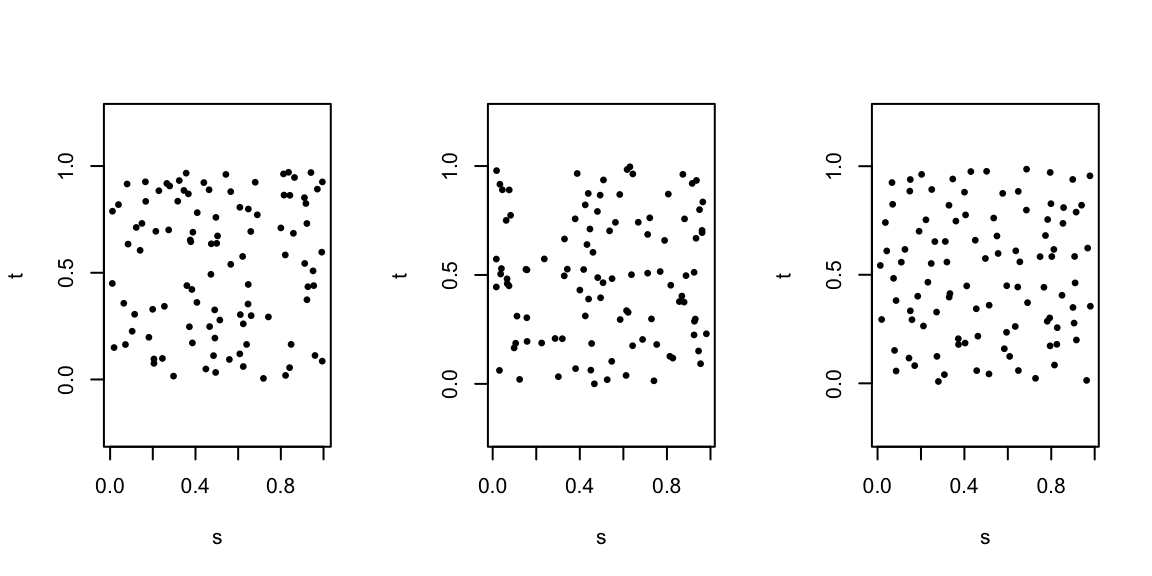
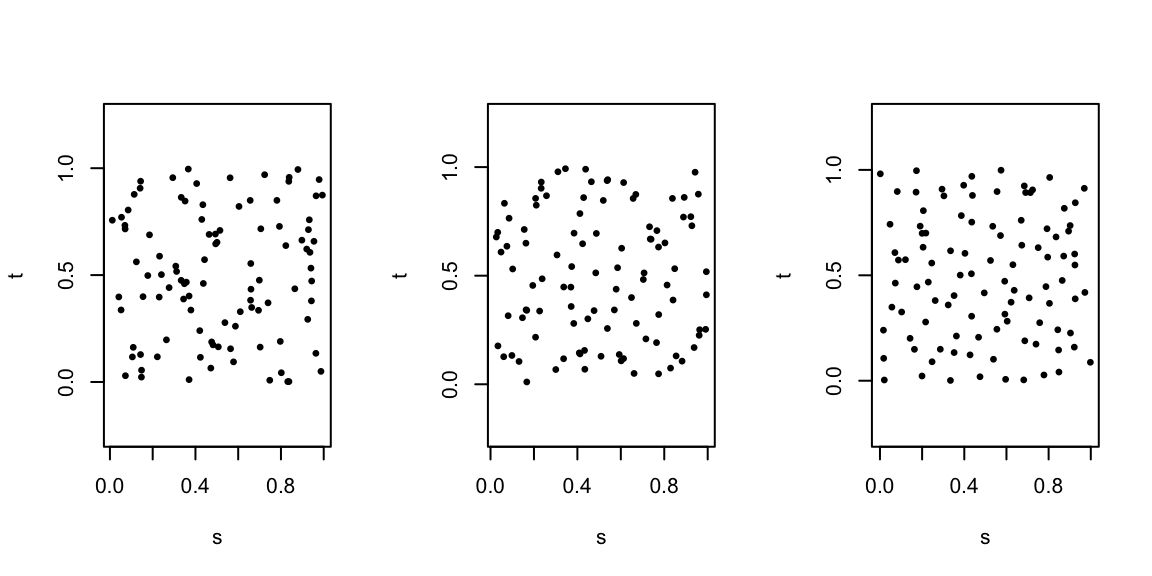
pkg: restore plotting options after changes in documentation

diff --git a/docs/articles/tdaunif.html b/docs/articles/tdaunif.html
@@ -76,7 +76,7 @@
       <h1 data-toc-skip>Uniform and Stratified Sampling from Manifolds in Euclidean Space</h1>
                         <h4 class="author">Cory Brunson</h4>
             
-            <h4 class="date">2020-10-09</h4>
+            <h4 class="date">2020-10-17</h4>
       
       <small class="dont-index">Source: <a href="https://github.com/corybrunson/tdaunif/blob/master/vignettes/tdaunif.rmd"><code>vignettes/tdaunif.rmd</code></a></small>
       <div class="hidden name"><code>tdaunif.rmd</code></div>
@@ -89,6 +89,14 @@
 <p>Samples from <a href="https://mathworld.wolfram.com/ParametricEquations.html">parameterized</a> immersions are easy to generate: When the parameterization is <span class="math inline">\(f : S \to X\)</span>, sample points from the parameter space <span class="math inline">\(S\)</span> (the domain) and transform the points to the cooordinate space <span class="math inline">\(X\)</span> (the codomain). When the parameterization is not volume-preserving (length-preserving for 1-dimensional manifolds, area-preserving for 2-dimensional manifolds, etc.), however, this will lead to oversampling of compressed regions and undersampling of expanded regions, called “warping”. <a href="https://projecteuclid.org/euclid.imsc/1379942050">Diaconis, Holmes, and Shahshahani (2013)</a> illustrate this problem by sampling naïvely from the <em>curved torus</em>, a common embedding of the torus <span class="math inline">\(\mathbb{T}^2\)</span> into 3-dimensional Euclidean space <span class="math inline">\(\mathbb{R}^3\)</span>.</p>
 <p>The package makes use of two techniques to mitigate this problem. The easier technique, described by Diaconis, Holmes, and Shahshahani, is <em>rejection sampling</em>: Generate a larger-than-necessary sample in the naïve way and then strategically discard samples to correct for warping. To do this requires explicitly calculating a function that quantifies the warping at each point in the domain, a more general analog to the derivative of a function <span class="math inline">\(f : \mathbb{R} \to \mathbb{R}\)</span>. This derivative is called the <a href="https://mathworld.wolfram.com/Jacobian.html">Jacobian determinant</a> <span class="math inline">\(j_f : S \to \mathbb{R}\)</span> and is used to calibrate the rejection rate.</p>
 <p>The harder technique requires analytically solving (i.e. finding an inverse formula for) <span class="math inline">\(j_f\)</span> in order to construct an alternative, <em>volume-preserving</em> parameterization <span class="math inline">\(\tilde{f} : S \to X\)</span> of the same manifold. <a href="https://www.cs.princeton.edu/courses/archive/fall04/cos526/papers/course29sig01.pdf">Arvo (2001; p. 41–70)</a> describes this technique for several simple cases, some of which are implemented here. Unfortunately, most common parameterizations do not have the necessary analytic solutions so are not implemented this way. For those that are, an important payoff is the ability to generate <em>stratified samples</em> from the coordinate space merely by stratifying the parameter space.</p>
+<div id="set-up" class="section level3">
+<h3 class="hasAnchor">
+<a href="#set-up" class="anchor"></a>Set up</h3>
+<p>This chunk attaches the installed version of the package, saves the default graphics settings and initializes the random number generator:</p>
+<div class="sourceCode" id="cb1"><html><body><pre class="r"><span class="fu"><a href="https://rdrr.io/r/base/library.html">library</a></span>(<span class="no">tdaunif</span>)
+<span class="no">oldpar</span> <span class="kw">&lt;-</span> <span class="fu"><a href="https://rdrr.io/r/graphics/par.html">par</a></span>(<span class="kw">no.readonly</span> <span class="kw">=</span> <span class="fl">TRUE</span>)
+<span class="fu"><a href="https://rdrr.io/r/base/Random.html">set.seed</a></span>(<span class="fl">0</span>)</pre></body></html></div>
+</div>
 <div id="volume-preserving-parameterizations" class="section level2">
 <h2 class="hasAnchor">
 <a href="#volume-preserving-parameterizations" class="anchor"></a>Volume-preserving parameterizations</h2>
@@ -110,7 +118,7 @@ h : [0,1]\times[0,1] &amp; \to \mathbb{R}^3 \\
 1 - u
 \end{array}\right]
 \end{align*}\]</span></p>
-<div class="sourceCode" id="cb1"><html><body><pre class="r"><span class="no">hemi</span> <span class="kw">&lt;-</span> <span class="fu"><a href="../reference/sphere.html">sample_2hemisphere</a></span>(<span class="fl">180L</span>)
+<div class="sourceCode" id="cb2"><html><body><pre class="r"><span class="no">hemi</span> <span class="kw">&lt;-</span> <span class="fu"><a href="../reference/sphere.html">sample_2hemisphere</a></span>(<span class="fl">180L</span>)
 <span class="fu"><a href="https://rdrr.io/r/graphics/pairs.html">pairs</a></span>(<span class="no">hemi</span>, <span class="kw">asp</span> <span class="kw">=</span> <span class="fl">1</span>, <span class="kw">pch</span> <span class="kw">=</span> <span class="fl">19</span>, <span class="kw">cex</span> <span class="kw">=</span> <span class="fl">.5</span>)</pre></body></html></div>
 <p><img src="tdaunif_files/figure-html/unnamed-chunk-2-1.png" width="576" style="display: block; margin: auto;"></p>
 <p>Notice the classical pattern of random clustering: Samples from uniform distributions are not themselves uniformly distributed (in the way that lattices are), so they don’t match our intuitive expectations. If we want greater uniformity, volume-preserving maps offer a solution.</p>
@@ -118,7 +126,7 @@ h : [0,1]\times[0,1] &amp; \to \mathbb{R}^3 \\
 <h3 class="hasAnchor">
 <a href="#stratified-sampling" class="anchor"></a>Stratified sampling</h3>
 <p>To sample from a region more uniformly than at random, we can stratify the region, allocate a uniform subsample size to each stratum, and sample those points uniformly within each stratum. The <code>sample_strat_*()</code> functions implement this idea for unit cubes of any dimension:<a href="#fn1" class="footnote-ref" id="fnref1"><sup>1</sup></a></p>
-<div class="sourceCode" id="cb2"><html><body><pre class="r"><span class="no">sq1</span> <span class="kw">&lt;-</span> <span class="fu"><a href="../reference/stratified-samplers.html">sample_strat_square</a></span>(<span class="fl">100L</span>, <span class="kw">bins</span> <span class="kw">=</span> <span class="fl">1L</span>)
+<div class="sourceCode" id="cb3"><html><body><pre class="r"><span class="no">sq1</span> <span class="kw">&lt;-</span> <span class="fu"><a href="../reference/stratified-samplers.html">sample_strat_square</a></span>(<span class="fl">100L</span>, <span class="kw">bins</span> <span class="kw">=</span> <span class="fl">1L</span>)
 <span class="no">sq4</span> <span class="kw">&lt;-</span> <span class="fu"><a href="../reference/stratified-samplers.html">sample_strat_square</a></span>(<span class="fl">100L</span>, <span class="kw">bins</span> <span class="kw">=</span> <span class="fl">4L</span>)
 <span class="no">sq10</span> <span class="kw">&lt;-</span> <span class="fu"><a href="../reference/stratified-samplers.html">sample_strat_square</a></span>(<span class="fl">100L</span>, <span class="kw">bins</span> <span class="kw">=</span> <span class="fl">10L</span>)
 <span class="fu"><a href="https://rdrr.io/r/graphics/par.html">par</a></span>(<span class="kw">mfrow</span> <span class="kw">=</span> <span class="fu"><a href="https://rdrr.io/r/base/c.html">c</a></span>(<span class="fl">1</span>, <span class="fl">3</span>))
@@ -126,7 +134,6 @@ h : [0,1]\times[0,1] &amp; \to \mathbb{R}^3 \\
 <span class="fu"><a href="https://rdrr.io/r/base/plot.html">plot</a></span>(<span class="no">sq4</span>, <span class="kw">asp</span> <span class="kw">=</span> <span class="fl">1</span>, <span class="kw">pch</span> <span class="kw">=</span> <span class="fl">19</span>, <span class="kw">cex</span> <span class="kw">=</span> <span class="fl">.5</span>)
 <span class="fu"><a href="https://rdrr.io/r/base/plot.html">plot</a></span>(<span class="no">sq10</span>, <span class="kw">asp</span> <span class="kw">=</span> <span class="fl">1</span>, <span class="kw">pch</span> <span class="kw">=</span> <span class="fl">19</span>, <span class="kw">cex</span> <span class="kw">=</span> <span class="fl">.5</span>)</pre></body></html></div>
 <p><img src="tdaunif_files/figure-html/unnamed-chunk-3-1.png" width="576" style="display: block; margin: auto;"></p>
-<div class="sourceCode" id="cb3"><html><body><pre class="r"><span class="fu"><a href="https://rdrr.io/r/graphics/par.html">par</a></span>(<span class="kw">mfrow</span> <span class="kw">=</span> <span class="fu"><a href="https://rdrr.io/r/base/c.html">c</a></span>(<span class="fl">1</span>, <span class="fl">1</span>))</pre></body></html></div>
 <p>These functions also undergird stratified sampling from manifolds with volume-preserving parameterizations, including the hemisphere:</p>
 <div class="sourceCode" id="cb4"><html><body><pre class="r"><span class="no">hemi10</span> <span class="kw">&lt;-</span> <span class="fu"><a href="../reference/sphere.html">sample_2hemisphere</a></span>(<span class="fl">225L</span>, <span class="kw">bins</span> <span class="kw">=</span> <span class="fl">10L</span>)
 <span class="fu"><a href="https://rdrr.io/r/graphics/pairs.html">pairs</a></span>(<span class="no">hemi10</span>, <span class="kw">asp</span> <span class="kw">=</span> <span class="fl">1</span>, <span class="kw">pch</span> <span class="kw">=</span> <span class="fl">19</span>, <span class="kw">cex</span> <span class="kw">=</span> <span class="fl">.5</span>)</pre></body></html></div>
@@ -194,8 +201,12 @@ f : Q &amp; \to \mathbb{R}^2 \\
 <span class="fu"><a href="https://rdrr.io/r/base/plot.html">plot</a></span>(<span class="no">disk1</span>, <span class="kw">asp</span> <span class="kw">=</span> <span class="fl">1</span>, <span class="kw">pch</span> <span class="kw">=</span> <span class="fl">19</span>, <span class="kw">cex</span> <span class="kw">=</span> <span class="fl">1</span>/<span class="fl">3</span>)
 <span class="fu"><a href="https://rdrr.io/r/base/plot.html">plot</a></span>(<span class="no">disk2</span>, <span class="kw">asp</span> <span class="kw">=</span> <span class="fl">1</span>, <span class="kw">pch</span> <span class="kw">=</span> <span class="fl">19</span>, <span class="kw">cex</span> <span class="kw">=</span> <span class="fl">1</span>/<span class="fl">3</span>)</pre></body></html></div>
 <p><img src="tdaunif_files/figure-html/unnamed-chunk-7-1.png" width="576" style="display: block; margin: auto;"></p>
-<div class="sourceCode" id="cb8"><html><body><pre class="r"><span class="fu"><a href="https://rdrr.io/r/graphics/par.html">par</a></span>(<span class="kw">mfrow</span> <span class="kw">=</span> <span class="fu"><a href="https://rdrr.io/r/base/c.html">c</a></span>(<span class="fl">1L</span>, <span class="fl">1L</span>))</pre></body></html></div>
 <p>Pretty close!</p>
+</div>
+<div id="set-down" class="section level3">
+<h3 class="hasAnchor">
+<a href="#set-down" class="anchor"></a>Set down</h3>
+<div class="sourceCode" id="cb8"><html><body><pre class="r"><span class="fu"><a href="https://rdrr.io/r/graphics/par.html">par</a></span>(<span class="no">oldpar</span>)</pre></body></html></div>
 </div>
 </div>
 <div class="footnotes">

diff --git a/docs/index.html b/docs/index.html
@@ -106,16 +106,19 @@
 <a href="#installation" class="anchor"></a>installation</h3>
 <p><strong>tdaunif</strong> is not yet on CRAN, but you can install it from GitHub using <a href="https://github.com/r-lib/remotes">the <strong>remotes</strong> package</a>:</p>
 <div class="sourceCode" id="cb1"><pre class="r"><span class="kw pkg">remotes</span><span class="kw ns">::</span><span class="fu"><a href="https://remotes.r-lib.org/reference/install_github.html">install_github</a></span>(<span class="st">"corybrunson/tdaunif"</span>, <span class="kw">build_vignettes</span> <span class="kw">=</span> <span class="fl">TRUE</span>)</pre></div>
+<p>To stabilize this document, this chunk saves the default graphics settings (as required by CRAN) and initializes the random number generator:</p>
+<div class="sourceCode" id="cb2"><pre class="r"><span class="no">oldpar</span> <span class="kw">&lt;-</span> <span class="fu"><a href="https://rdrr.io/r/graphics/par.html">par</a></span>(<span class="kw">no.readonly</span> <span class="kw">=</span> <span class="fl">TRUE</span>)
+<span class="fu"><a href="https://rdrr.io/r/base/Random.html">set.seed</a></span>(<span class="fl">0</span>)</pre></div>
 </div>
 <div id="illustration" class="section level3">
 <h3 class="hasAnchor">
 <a href="#illustration" class="anchor"></a>illustration</h3>
 <p><a href="https://en.wikipedia.org/wiki/Klein_bottle#3D_pinched_torus_/_4D_M%C3%B6bius_tube">An intuitive embedding of the Klein bottle into 4-space</a> is adapted from the popular “donut” embedding of the torus in 3-space. In <strong>tdaunif</strong> this is called the “tube” parameterization. We can sample uniformly from this embedding (without noise) and examine the coordinate projections as follows:</p>
-<div class="sourceCode" id="cb2"><pre class="r"><span class="no">x</span> <span class="kw">&lt;-</span> <span class="fu"><a href="reference/klein-bottles.html">sample_klein_tube</a></span>(<span class="kw">n</span> <span class="kw">=</span> <span class="fl">360</span>, <span class="kw">ar</span> <span class="kw">=</span> <span class="fl">3</span>, <span class="kw">sd</span> <span class="kw">=</span> <span class="fl">0</span>)
+<div class="sourceCode" id="cb3"><pre class="r"><span class="no">x</span> <span class="kw">&lt;-</span> <span class="fu"><a href="reference/klein-bottles.html">sample_klein_tube</a></span>(<span class="kw">n</span> <span class="kw">=</span> <span class="fl">360</span>, <span class="kw">ar</span> <span class="kw">=</span> <span class="fl">3</span>, <span class="kw">sd</span> <span class="kw">=</span> <span class="fl">0</span>)
 <span class="fu"><a href="https://rdrr.io/r/graphics/pairs.html">pairs</a></span>(<span class="no">x</span>, <span class="kw">asp</span> <span class="kw">=</span> <span class="fl">1</span>, <span class="kw">pch</span> <span class="kw">=</span> <span class="fl">19</span>, <span class="kw">cex</span> <span class="kw">=</span> <span class="fl">.5</span>)</pre></div>
 <p><img src="reference/figures/README-klein%20bottle-1.png"><!-- --></p>
 <p>Compare these neat projections to those of the same sample with noise added in the ambient Euclidean space:</p>
-<div class="sourceCode" id="cb3"><pre class="r"><span class="no">x</span> <span class="kw">&lt;-</span> <span class="fu"><a href="reference/noise.html">add_noise</a></span>(<span class="no">x</span>, <span class="kw">sd</span> <span class="kw">=</span> <span class="fl">.2</span>)
+<div class="sourceCode" id="cb4"><pre class="r"><span class="no">x</span> <span class="kw">&lt;-</span> <span class="fu"><a href="reference/noise.html">add_noise</a></span>(<span class="no">x</span>, <span class="kw">sd</span> <span class="kw">=</span> <span class="fl">.2</span>)
 <span class="fu"><a href="https://rdrr.io/r/graphics/pairs.html">pairs</a></span>(<span class="no">x</span>, <span class="kw">asp</span> <span class="kw">=</span> <span class="fl">1</span>, <span class="kw">pch</span> <span class="kw">=</span> <span class="fl">19</span>, <span class="kw">cex</span> <span class="kw">=</span> <span class="fl">.5</span>)</pre></div>
 <p><img src="reference/figures/README-klein%20bottle%20with%20noise-1.png"><!-- --></p>
 <p>For a thorough discussion of this sampler, see <a href="https://corybrunson.github.io/2019/02/01/sampling/">my blog post</a> describing the method presented in <a href="https://projecteuclid.org/euclid.imsc/1379942050">Diaconis, Holmes, and Shahshahani (2013)</a>.</p>
@@ -124,15 +127,15 @@
 <h3 class="hasAnchor">
 <a href="#another-illustration" class="anchor"></a>another illustration</h3>
 <p>A subset of samplers allow stratified sampling, which relies on an analytic solution to the problem of length or area distortion created by most parameterizations. For example, the planar triangle sampler can be stratified to produce a more uniform arrangement of points than a properly uniform sample would produce:</p>
-<div class="sourceCode" id="cb4"><pre class="r"><span class="no">equilateral</span> <span class="kw">&lt;-</span> <span class="fu"><a href="https://rdrr.io/r/base/cbind.html">cbind</a></span>(<span class="fu"><a href="https://rdrr.io/r/base/c.html">c</a></span>(<span class="fl">0</span>,<span class="fl">0</span>), <span class="fu"><a href="https://rdrr.io/r/base/c.html">c</a></span>(<span class="fl">0.5</span>,<span class="fu"><a href="https://rdrr.io/r/base/MathFun.html">sqrt</a></span>(<span class="fl">3</span>)/<span class="fl">2</span>), <span class="fu"><a href="https://rdrr.io/r/base/c.html">c</a></span>(<span class="fl">1</span>,<span class="fl">0</span>))
+<div class="sourceCode" id="cb5"><pre class="r"><span class="no">equilateral</span> <span class="kw">&lt;-</span> <span class="fu"><a href="https://rdrr.io/r/base/cbind.html">cbind</a></span>(<span class="fu"><a href="https://rdrr.io/r/base/c.html">c</a></span>(<span class="fl">0</span>,<span class="fl">0</span>), <span class="fu"><a href="https://rdrr.io/r/base/c.html">c</a></span>(<span class="fl">0.5</span>,<span class="fu"><a href="https://rdrr.io/r/base/MathFun.html">sqrt</a></span>(<span class="fl">3</span>)/<span class="fl">2</span>), <span class="fu"><a href="https://rdrr.io/r/base/c.html">c</a></span>(<span class="fl">1</span>,<span class="fl">0</span>))
 <span class="no">x</span> <span class="kw">&lt;-</span> <span class="fu"><a href="reference/triangles.html">sample_triangle_planar</a></span>(<span class="kw">n</span> <span class="kw">=</span> <span class="fl">720</span>, <span class="kw">triangle</span> <span class="kw">=</span> <span class="no">equilateral</span>)
 <span class="no">y</span> <span class="kw">&lt;-</span> <span class="fu"><a href="reference/triangles.html">sample_triangle_planar</a></span>(<span class="kw">n</span> <span class="kw">=</span> <span class="fl">720</span>, <span class="kw">triangle</span> <span class="kw">=</span> <span class="no">equilateral</span>, <span class="kw">bins</span> <span class="kw">=</span> <span class="fl">24</span>)
 <span class="fu"><a href="https://rdrr.io/r/graphics/par.html">par</a></span>(<span class="kw">mfrow</span> <span class="kw">=</span> <span class="fu"><a href="https://rdrr.io/r/base/c.html">c</a></span>(<span class="fl">1L</span>, <span class="fl">2L</span>))
 <span class="fu"><a href="https://rdrr.io/r/base/plot.html">plot</a></span>(<span class="no">x</span>, <span class="kw">asp</span> <span class="kw">=</span> <span class="fl">1</span>, <span class="kw">pch</span> <span class="kw">=</span> <span class="fl">19</span>, <span class="kw">cex</span> <span class="kw">=</span> <span class="fl">.5</span>)
 <span class="fu"><a href="https://rdrr.io/r/base/plot.html">plot</a></span>(<span class="no">y</span>, <span class="kw">asp</span> <span class="kw">=</span> <span class="fl">1</span>, <span class="kw">pch</span> <span class="kw">=</span> <span class="fl">19</span>, <span class="kw">cex</span> <span class="kw">=</span> <span class="fl">.5</span>)</pre></div>
 <p><img src="reference/figures/README-planar%20triangle,%20uniformly%20and%20with%20stratification-1.png"><!-- --></p>
-<div class="sourceCode" id="cb5"><pre class="r"><span class="fu"><a href="https://rdrr.io/r/graphics/par.html">par</a></span>(<span class="kw">mfrow</span> <span class="kw">=</span> <span class="fu"><a href="https://rdrr.io/r/base/c.html">c</a></span>(<span class="fl">1L</span>, <span class="fl">1L</span>))</pre></div>
 <p>See <a href="https://dl.acm.org/doi/10.1145/218380.218500">Arvo (1995)</a> and Arvo’s notes from <a href="https://www.cs.princeton.edu/courses/archive/fall04/cos526/papers/course29sig01.pdf">Siggraph 2001</a> for a detailed treatment of this techniquue.</p>
+<div class="sourceCode" id="cb6"><pre class="r"><span class="fu"><a href="https://rdrr.io/r/graphics/par.html">par</a></span>(<span class="no">oldpar</span>)</pre></div>
 </div>
 </div>
 </div>

diff --git a/docs/CONTRIBUTING.html b/docs/CONTRIBUTING.html
@@ -132,7 +132,7 @@
 <a href="#issues" class="anchor"></a>Issues</h2>
 <p><strong>Questions, possible bugs, feature requests, other open-ended issues</strong> may be raised as <a href="https://help.github.com/en/github/managing-your-work-on-github/creating-an-issue">issues on GitHub</a>. In most cases, the issue should consist of two sections: a description of the issue, and a reproducible example of it. A reproducible example should attach packages, include data, and execute code:</p>
 <ol>
-<li>Attach all relevant packages at the top of the example.</li>
+<li><p>Attach all relevant packages at the top of the example.</p></li>
 <li>
 <p>Use as few and as simple objects as possible to illustrate the issue. If the issue involves one or more custom objects <code>&lt;object&gt;</code>, these should be reconstructed in the code rather than read from files, as follows:</p>
 <ol>

diff --git a/docs/news/index.html b/docs/news/index.html
@@ -117,9 +117,9 @@
       <small>Source: <a href='https://github.com/corybrunson/tdaunif/blob/master/NEWS.md'><code>NEWS.md</code></a></small>
     </div>
 
-    <div id="tdaunif-0-1-0" class="section level1">
+    <div id="tdaunif-010" class="section level1">
 <h1 class="page-header" data-toc-text="0.1.0">
-<a href="#tdaunif-0-1-0" class="anchor"></a>tdaunif 0.1.0</h1>
+<a href="#tdaunif-010" class="anchor"></a>tdaunif 0.1.0</h1>
 <p>This first minor version contains several common samplers, stratified samplers for cubes in any dimension, and a function factory for custom rejection samplers.</p>
 </div>
   </div>

diff --git a/README.md b/README.md
@@ -52,6 +52,15 @@ their own with minimal effort (see `help(manifold, package =
 remotes::install_github("corybrunson/tdaunif", build_vignettes = TRUE)
 ```
 
+To stabilize this document, this chunk saves the default graphics
+settings (as required by CRAN) and initializes the random number
+generator:
+
+``` r
+oldpar <- par(no.readonly = TRUE)
+set.seed(0)
+```
+
 ### illustration
 
 [An intuitive embedding of the Klein bottle
@@ -102,11 +111,11 @@ plot(y, asp = 1, pch = 19, cex = .5)
 
 ![](man/figures/README-planar%20triangle,%20uniformly%20and%20with%20stratification-1.png)<!-- -->
 
-``` r
-par(mfrow = c(1L, 1L))
-```
-
 See [Arvo (1995)](https://dl.acm.org/doi/10.1145/218380.218500) and
 Arvo’s notes from
 [Siggraph 2001](https://www.cs.princeton.edu/courses/archive/fall04/cos526/papers/course29sig01.pdf)
 for a detailed treatment of this techniquue.
+
+``` r
+par(oldpar)
+```
